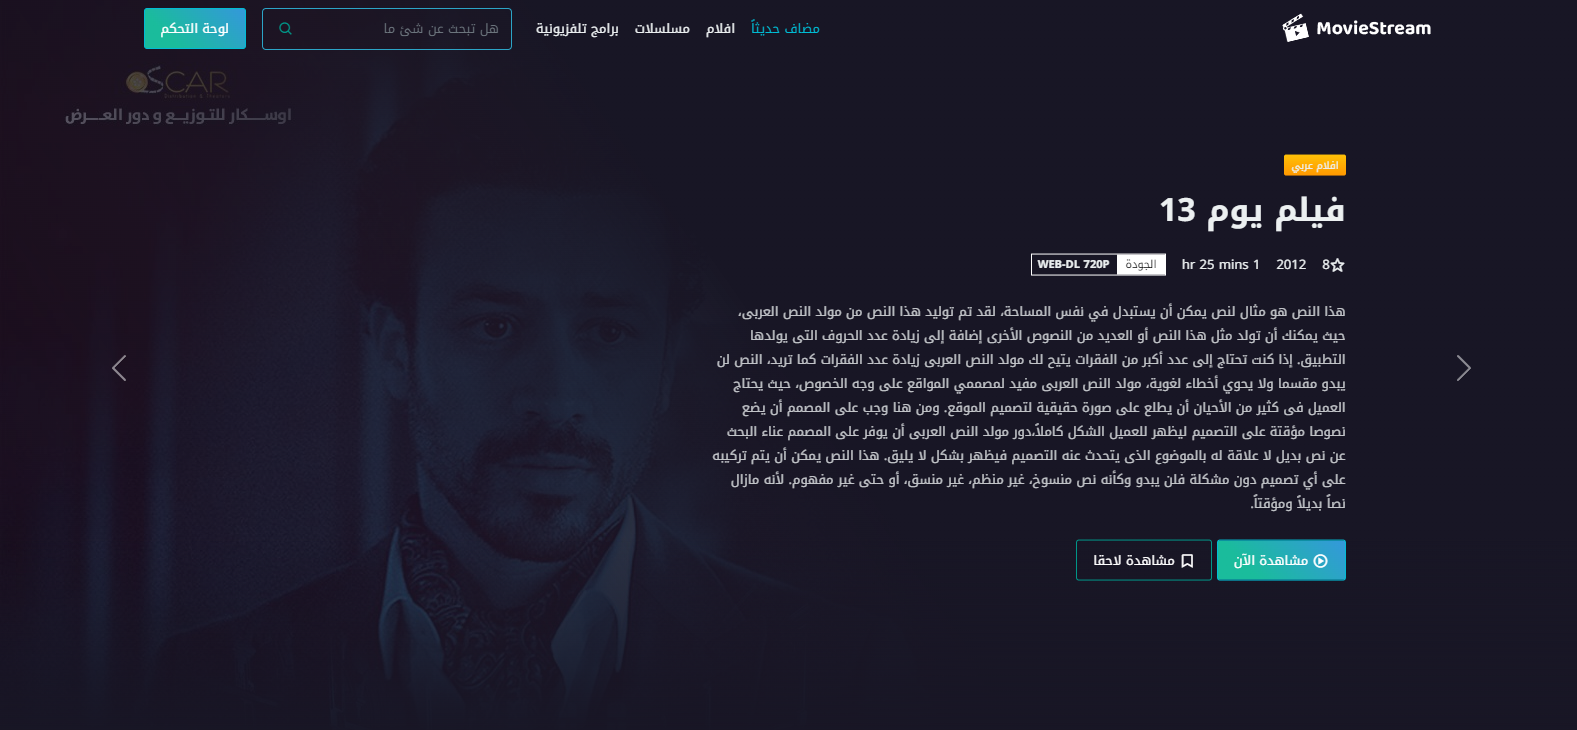
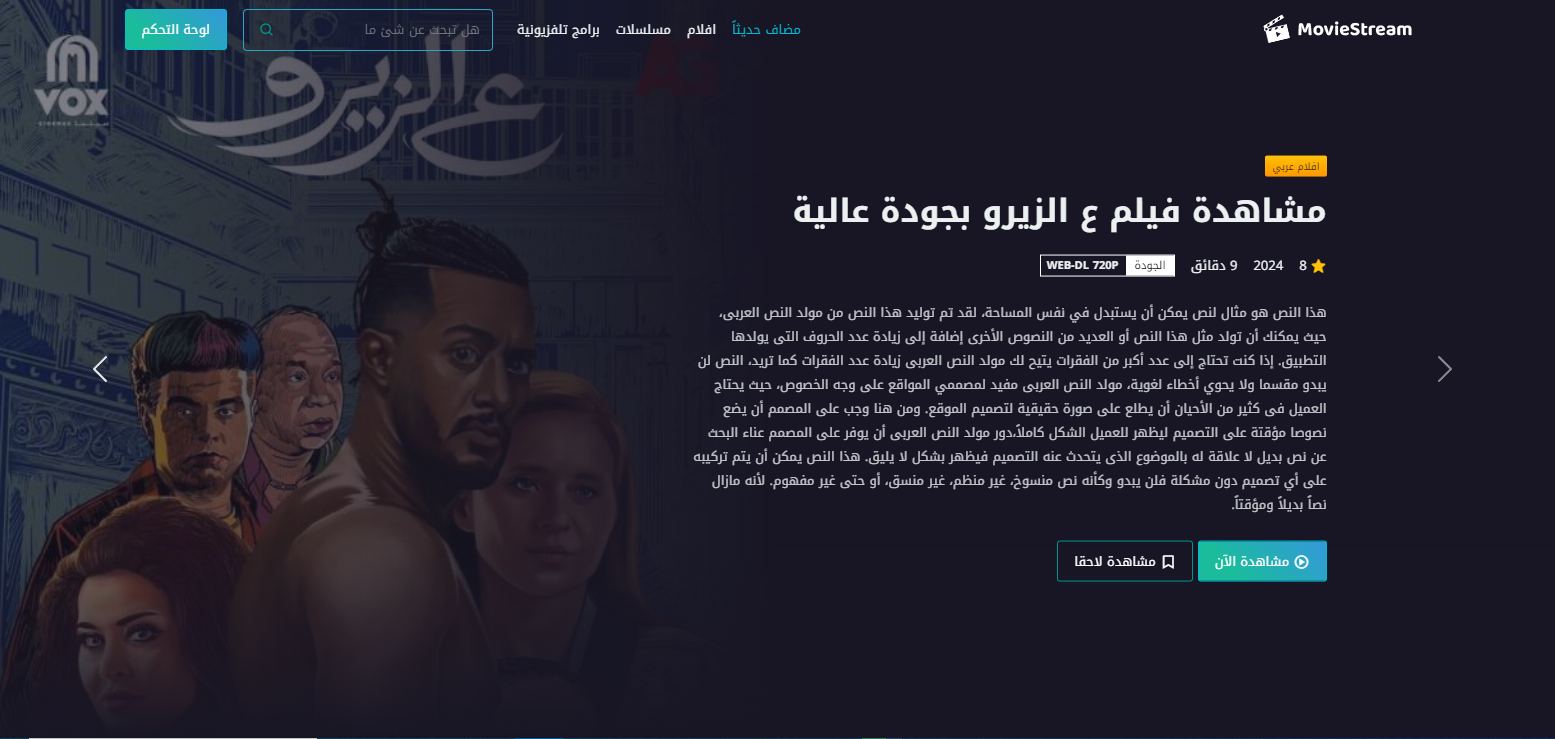
Session 12-4-2024

diff --git a/public/assets/css/style.css b/public/assets/css/style.css
@@ -212,7 +212,6 @@ a.dropdown-item {
 
 /* ====================================================== Navbar */
 .navbar {
-    background-color: #181625;
     position: fixed;
     width: 100%;
     left: 0;
@@ -489,7 +488,7 @@ span.meta-quality>span {
     width: 100%;
     height: 100%;
     background-repeat: no-repeat;
-    background-size: auto;
+    background-size: 50%;
 }
 
 .trailer-image::before {
@@ -497,7 +496,7 @@ span.meta-quality>span {
     position: absolute;
     width: 100%;
     height: 100%;
-    background: linear-gradient(235deg, #181625 50%, transparent 150%);
+    background: linear-gradient(270deg, #181625 50%, transparent 150%);
 }
 
 @media screen and (max-width: 992px) {

diff --git a/resources/views/movies/index.blade.php b/resources/views/movies/index.blade.php
@@ -5,7 +5,7 @@
 
 {{-- Search form --}}
 @section('search')
-    <form action="؟" method="get">
+    <form action="?" method="get">
         <input type="search" class="form-control" id="search" name="q" value="{{ request()->has('q') ? request()->get('q') : '' }}" placeholder="ابحث داخل الأفلام">
         <i class="bx bx-search"></i>
     </form>
